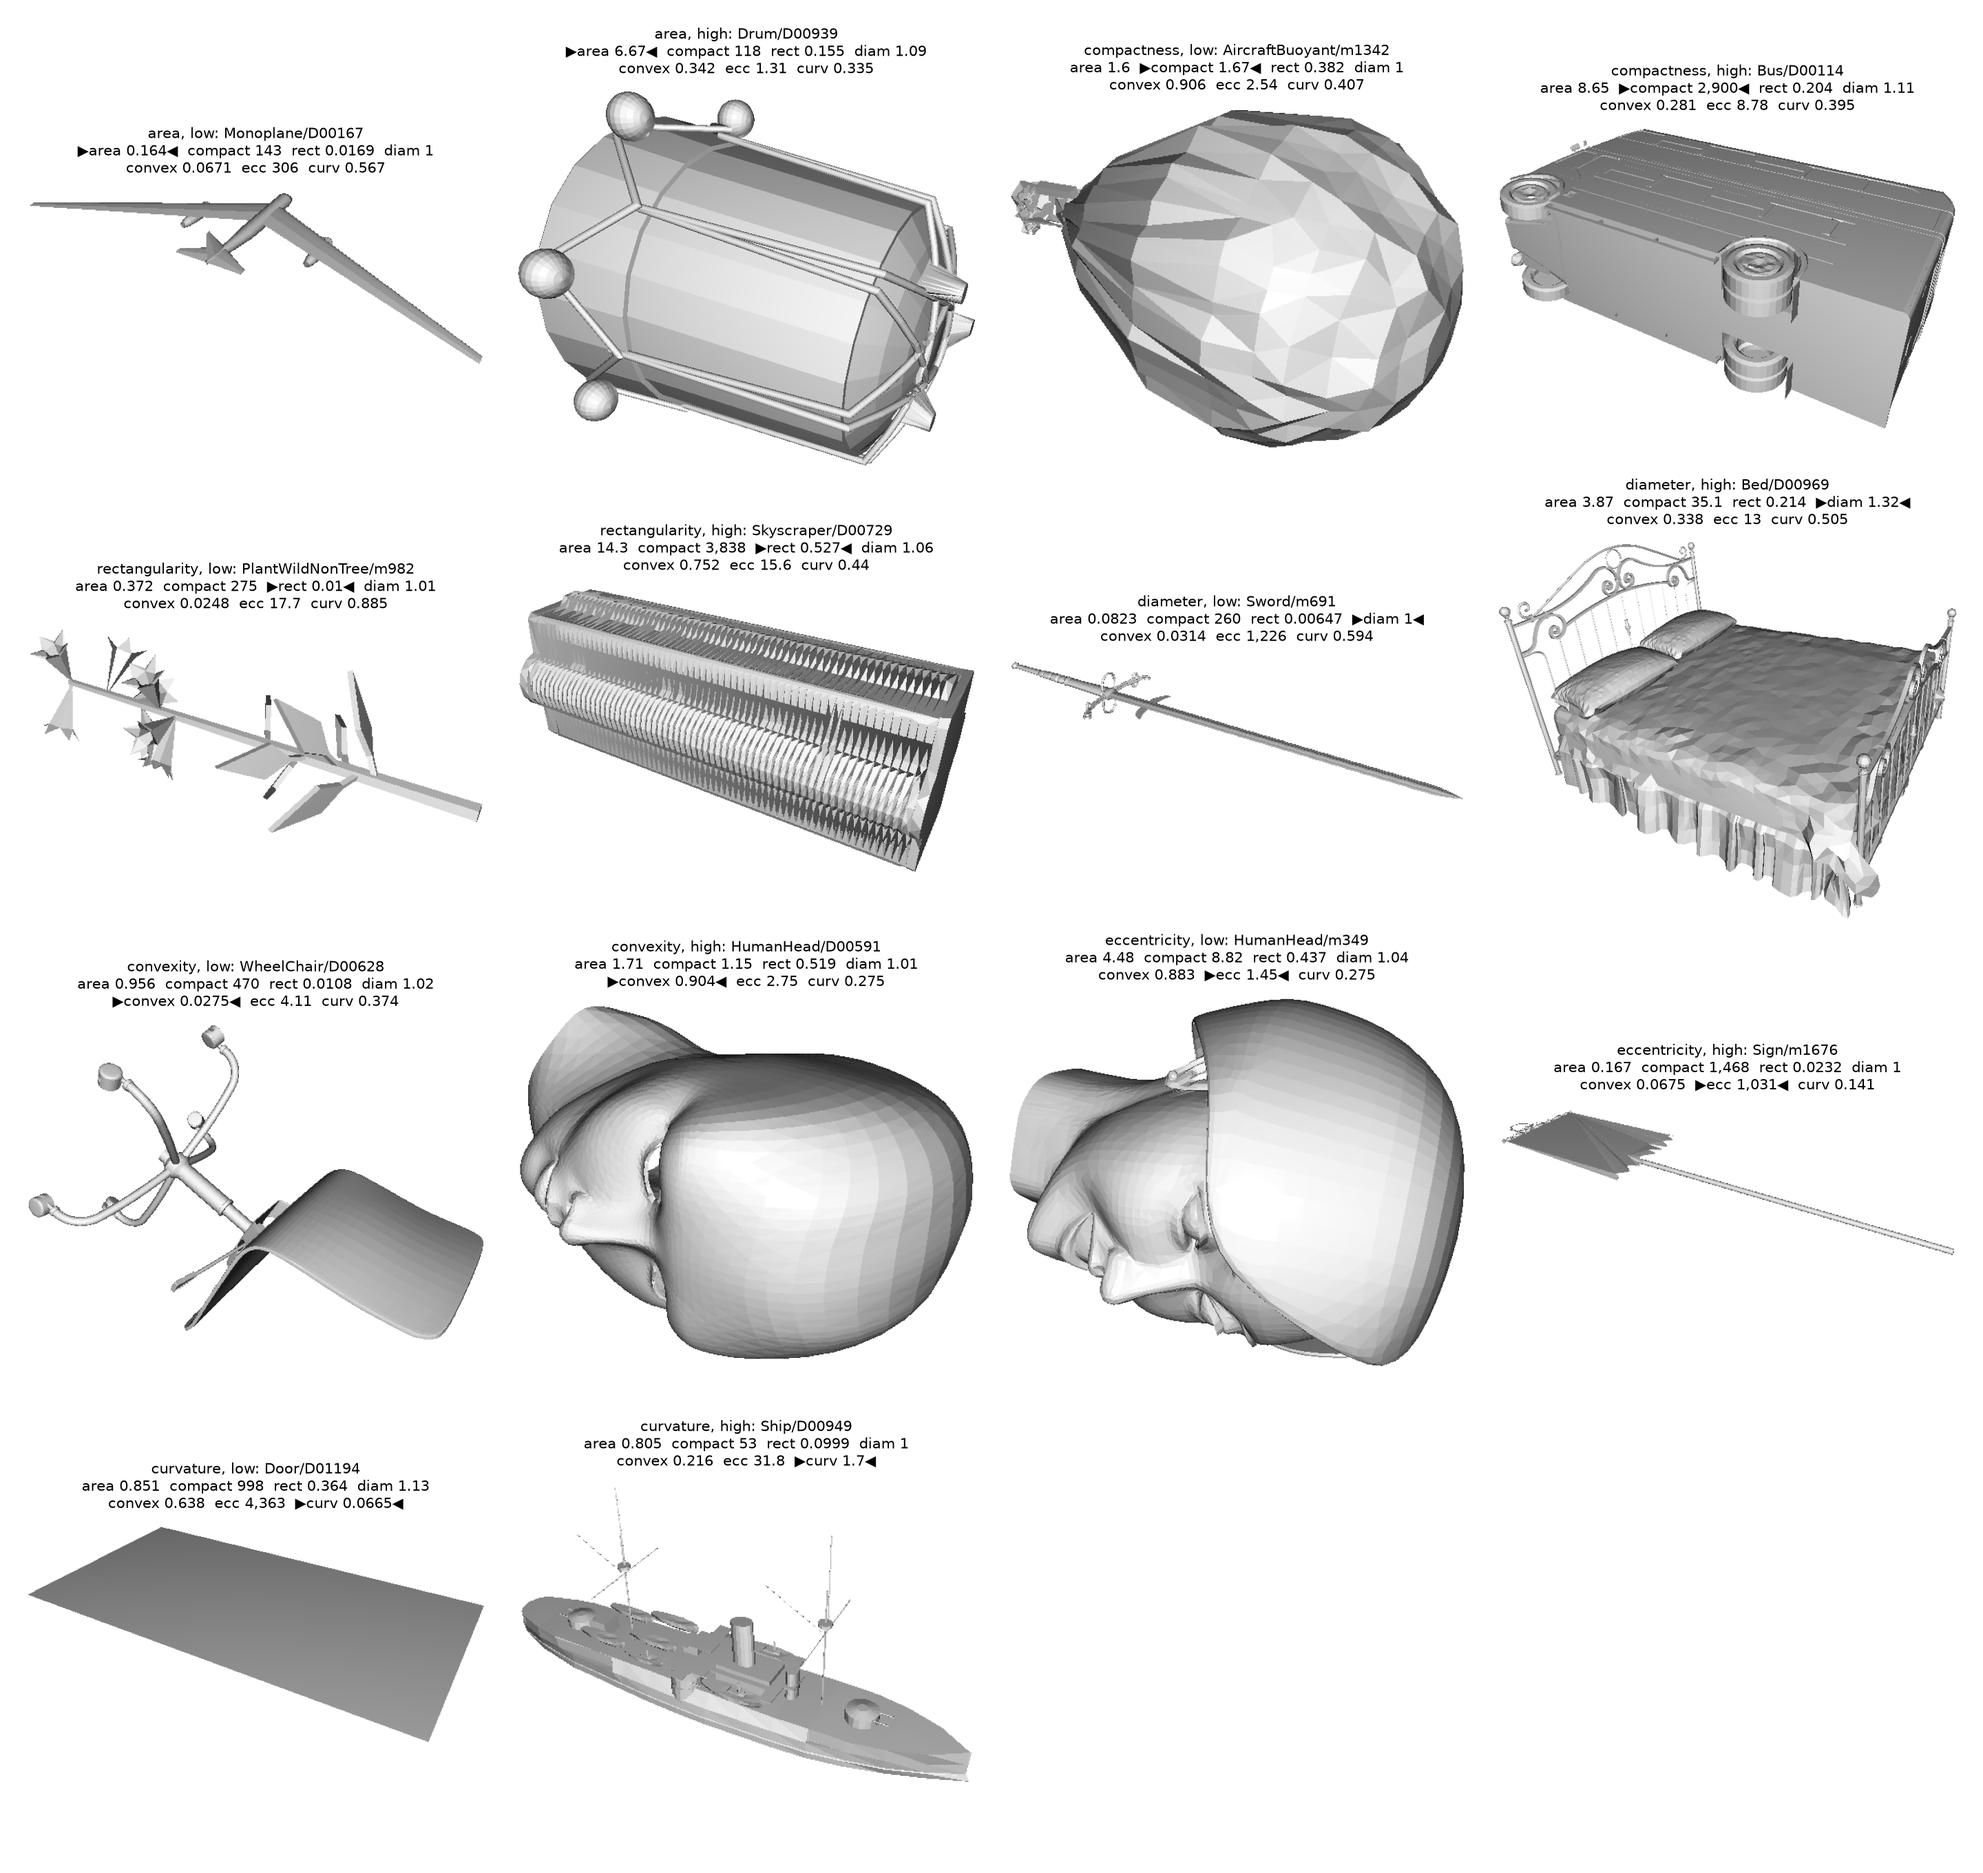
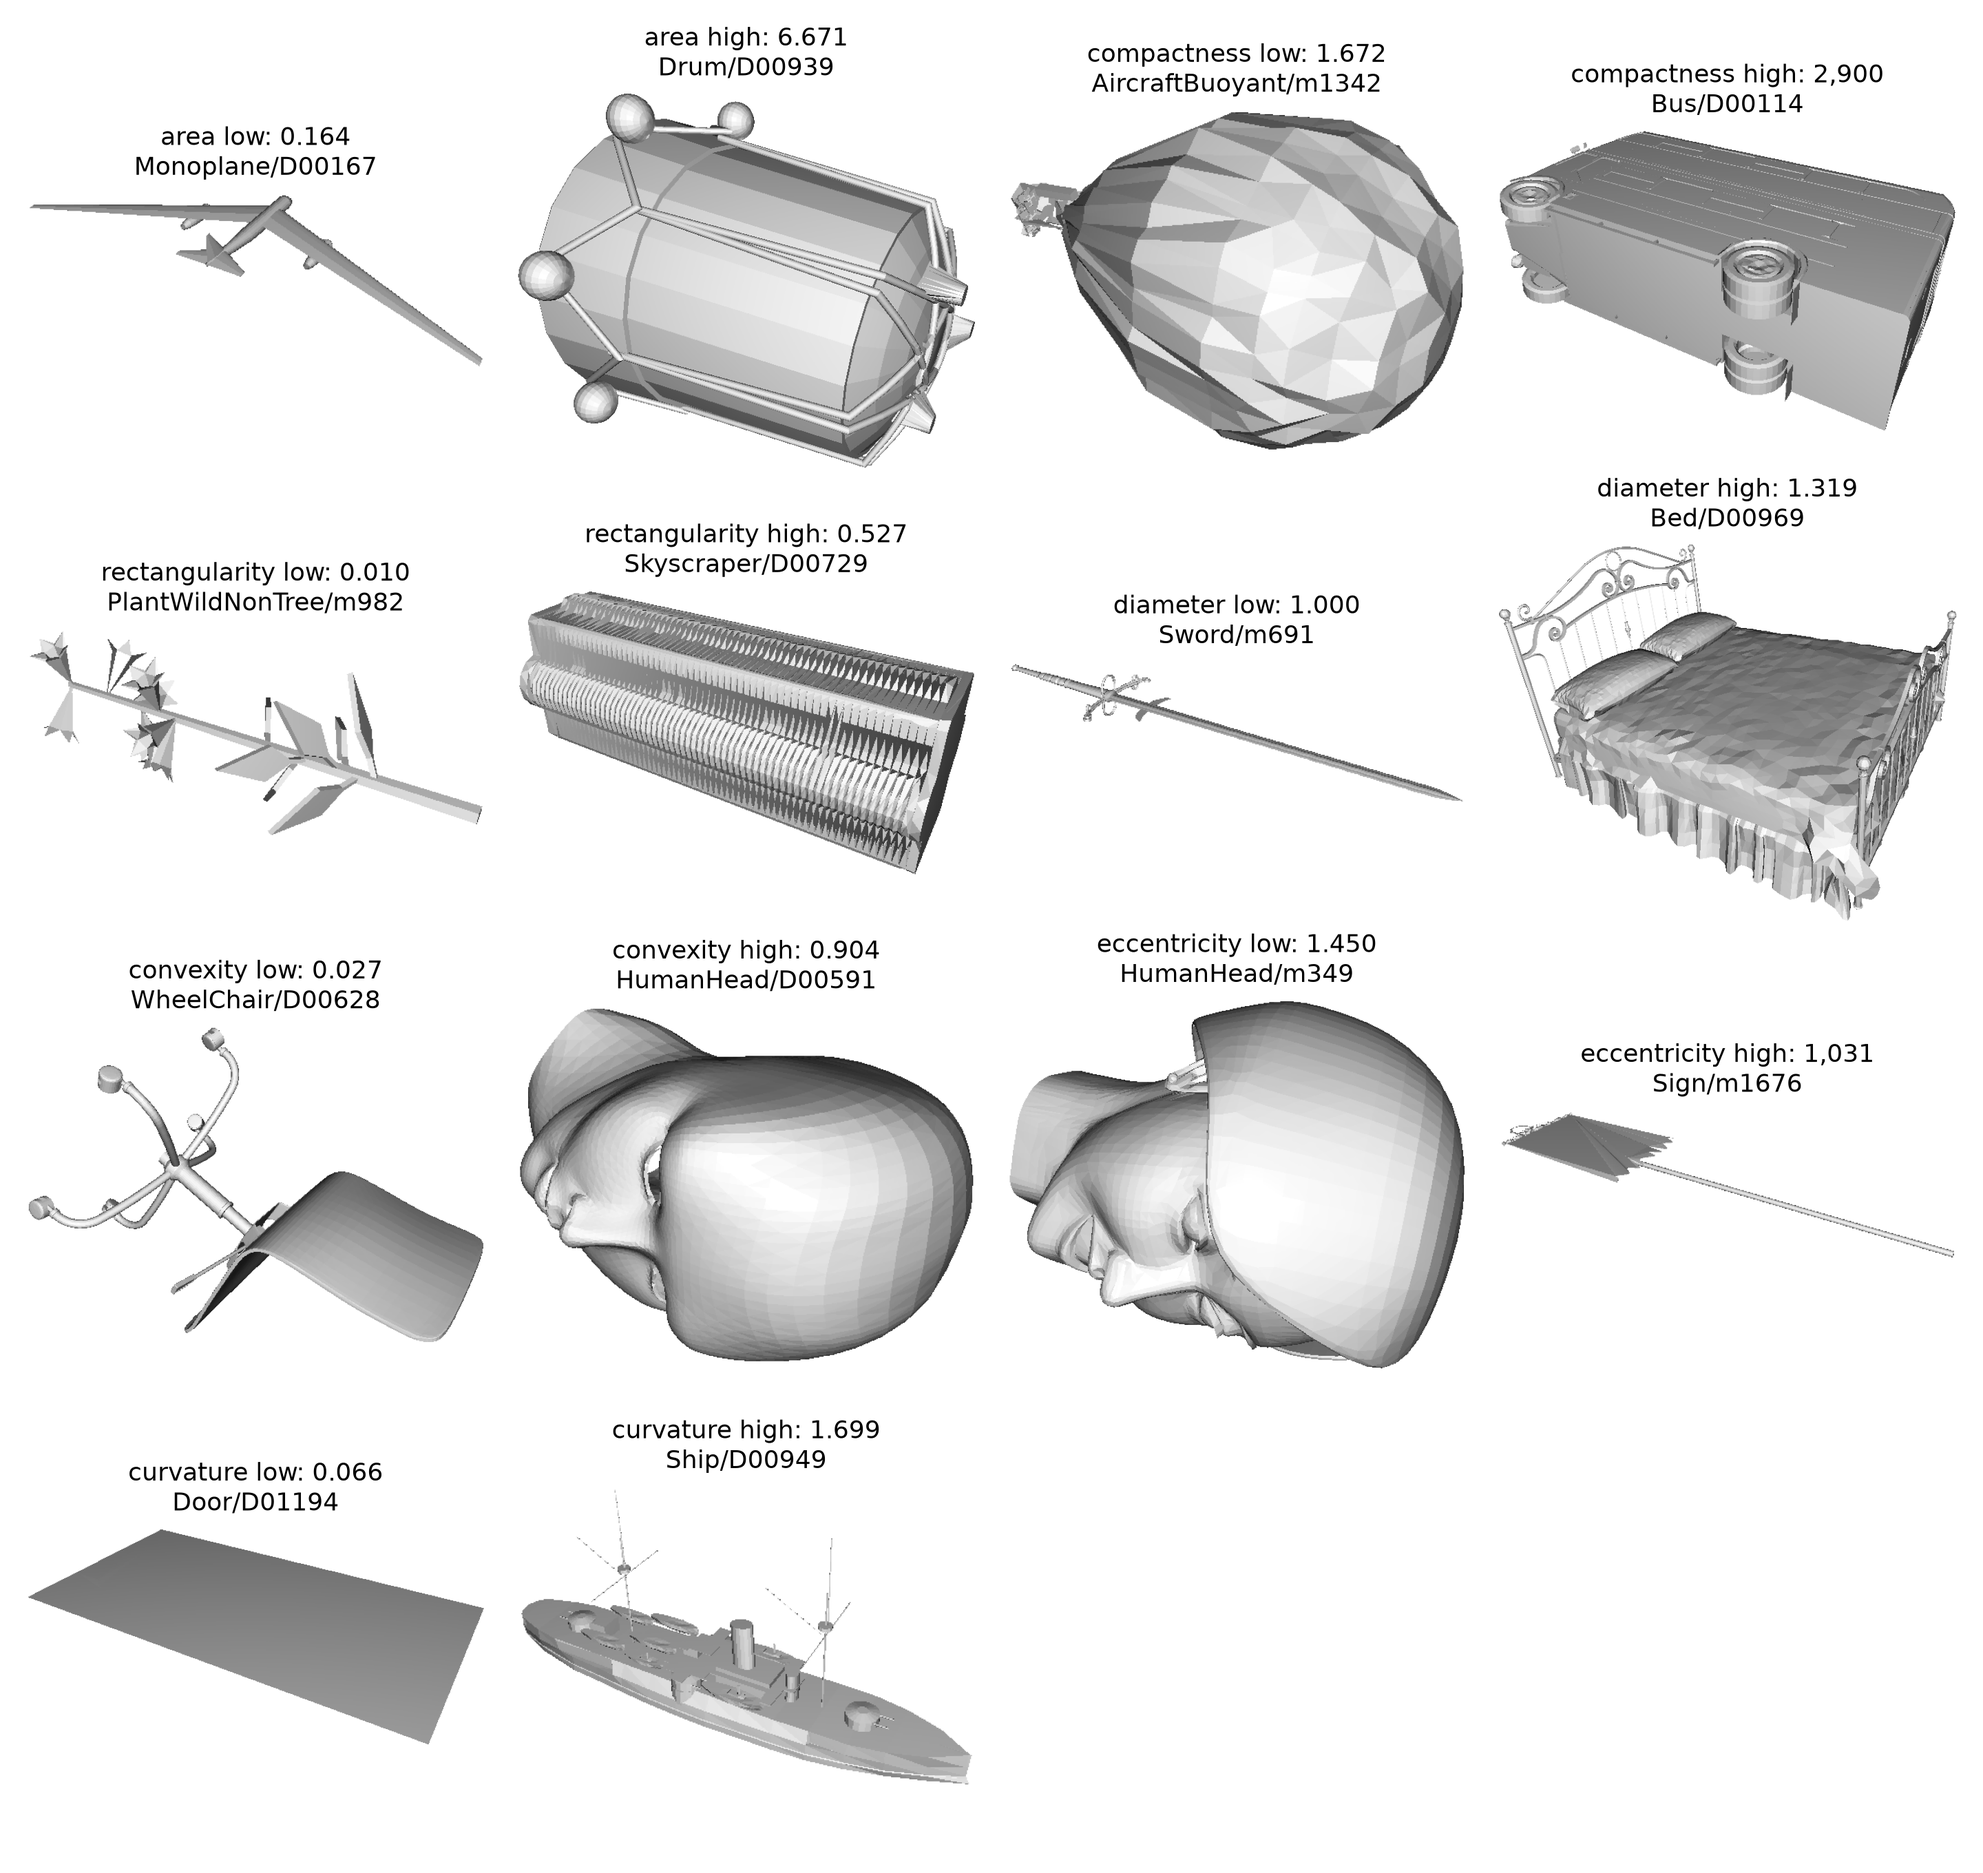
misc fixes and additions for report

diff --git a/tsne.py b/tsne.py
@@ -4,6 +4,7 @@ import numpy as np
 import pandas as pd
 import matplotlib.pyplot as plt
 import open3d as o3d
+from matplotlib.backend_bases import MouseEvent
 from sklearn.manifold import TSNE
 
 import distance as ds
@@ -26,13 +27,13 @@ def embed_2d(seed=0):
     return points
 
 
-def plot(points, gui=True):
+def plot(points, gui=True, brush=None):
     classes = sorted(points["class"].unique())
     code = points["class"].map({c: i for i, c in enumerate(classes)}).to_numpy()
     fig, ax = plt.subplots(figsize=(12, 10))
     dots = ax.scatter(points["x"], points["y"], c=code, cmap="nipy_spectral", s=10)
     for cls, part in points.groupby("class"):
-        ax.text(part["x"].median(), part["y"].median(), cls, fontsize=6, alpha=0.7,
+        ax.text(part["x"].median(), part["y"].median(), cls, fontsize=8, alpha=0.8,
                 ha="center", bbox=dict(boxstyle="square,pad=0.1", fc="white", alpha=0.5, lw=0))
     ax.set_title(f"tsne of {len(points)} shapes, {len(classes)} classes")
     ax.set_xticks([])
@@ -41,9 +42,6 @@ def plot(points, gui=True):
     fname = os.path.join(out_dir, "tsne.png")
     plt.savefig(fname, dpi=150)
     print("saved", fname)
-    if not gui:
-        plt.close(fig)
-        return
 
     note = ax.annotate("", xy=(0, 0), xytext=(12, 12), textcoords="offset points", fontsize=9,
                        bbox=dict(boxstyle="round", fc="white"), arrowprops=dict(arrowstyle="-"))
@@ -83,7 +81,17 @@ def plot(points, gui=True):
 
     fig.canvas.mpl_connect("motion_notify_event", hover)
     fig.canvas.mpl_connect("button_press_event", click)
-    plt.show()
+    if brush is not None:
+        row = points[points["path"].map(qr.key) == brush].iloc[0]
+        x, y = ax.transData.transform((row["x"], row["y"]))
+        fig.canvas.callbacks.process("motion_notify_event", MouseEvent("motion_notify_event", fig.canvas, x, y))
+        fname = os.path.join(out_dir, "tsne_brush.png")
+        plt.savefig(fname, dpi=150)
+        print("saved", fname)
+    if gui:
+        plt.show()
+    else:
+        plt.close(fig)
 
 
 if __name__ == "__main__":
@@ -94,4 +102,4 @@ if __name__ == "__main__":
         points["path"] = points["path"].str.replace("\\", "/", regex=False)
     else:
         points = embed_2d()
-    plot(points, gui="-nogui" not in argv)
+    plot(points, gui="-nogui" not in argv, brush=qr.flag_value(argv, "-brush", None, str))

diff --git a/show_descriptors.py b/show_descriptors.py
@@ -21,17 +21,10 @@ descriptors = {
     "curvature": "flat or concave vs strongly convex",
 }
 
-short = {"area": "area", "compactness": "compact", "rectangularity": "rect", "diameter": "diam",
-         "convexity": "convex", "eccentricity": "ecc", "curvature": "curv"}
-
 def caption(row, name, end):
-    def value(d):
-        v = row[d]
-        text = f"{short[d]} {v:.3g}" if abs(v) < 1000 else f"{short[d]} {v:,.0f}"
-        return f"▶{text}◀" if d == name else text
-    names = list(descriptors)
-    return "\n".join([f"{name}, {end}: {key(row)}", "  ".join(value(d) for d in names[:4]),
-                      "  ".join(value(d) for d in names[4:])])
+    v = row[name]
+    value = f"{v:.3f}" if abs(v) < 1000 else f"{v:,.0f}"
+    return f"{name} {end}: {value}\n{key(row)}"
 
 def key(row):
     return f"{row['class']}/{os.path.splitext(os.path.basename(row['path']))[0]}"
@@ -58,14 +51,14 @@ def main(view=False):
             labels.append(caption(row, name, end))
             picked.append({"descriptor": name, "end": end, "shape": key(row),
                            "value": row[name], "class": row["class"]})
-        save_grid(pair, labels, os.path.join(examples_dir, f"{name}.png"), columns=2, cell=(3.6, 3.6), fontsize=8)
+        save_grid(pair, labels, os.path.join(examples_dir, f"{name}.png"), columns=2, cell=(3.6, 3.6), fontsize=11)
         images += pair
         captions += labels
         if view:
             meshes = [shaded(low["path"]).translate((-0.8, 0, 0)), shaded(high["path"]).translate((0.8, 0, 0))]
             o3d.visualization.draw_geometries(meshes, window_name=f"{name}: {story}", width=1400, height=700)
     save_grid(images, captions, os.path.join(out_dir, "descriptor_examples.png"), columns=4,
-              cell=(3.6, 3.4), fontsize=7.5)
+              cell=(3.6, 3.4), fontsize=13)
 
     save_stats(pd.DataFrame(picked), examples_csv)
     print("snapshots in", examples_dir)

diff --git a/query.py b/query.py
@@ -47,7 +47,7 @@ def query_row(target, database_paths):
     return pd.DataFrame([ft.extract_features(prepared)]), prepared
 
 
-def show(query_path, matches, label, external=False, gui=True):
+def show(query_path, matches, label, external=False, gui=True, suffix=""):
     os.makedirs(examples_dir, exist_ok=True)
     captions = [f"query{' (external file)' if external else ''}\n{label}"] + [f"#{rank} {key(row.path)}\nd = {row.distance:.3f}"
                                       for rank, row in enumerate(matches.itertuples(), start=1)]
@@ -59,15 +59,18 @@ def show(query_path, matches, label, external=False, gui=True):
         meshes.append(mesh)
 
     shown = min(len(meshes), 11)
-    fig, ax = plt.subplots(1, shown, figsize=(2.4 * shown, 2.9))
-    for a, mesh, caption in zip(np.atleast_1d(ax), meshes, captions):
+    columns = min(shown, 6)
+    rows = -(-shown // columns)
+    fig, ax = plt.subplots(rows, columns, figsize=(2.4 * columns, 2.9 * rows), squeeze=False)
+    for a in ax.ravel():
+        a.axis("off")
+    for a, mesh, caption in zip(ax.ravel(), meshes[:shown], captions):
         a.imshow(render(mesh, size=400))
         a.set_title(caption, fontsize=8)
-        a.axis("off")
     if shown < len(meshes):
         fig.suptitle(f"first {shown - 1} of {len(meshes) - 1} matches", fontsize=9)
     plt.tight_layout()
-    fname = os.path.join(examples_dir, f"{label.replace('/', '_')}.png")
+    fname = os.path.join(examples_dir, f"{label.replace('/', '_')}{suffix}.png")
     plt.savefig(fname, dpi=150)
     plt.close(fig)
     print("snapshot:", fname)

diff --git a/validate_features.py b/validate_features.py
@@ -27,9 +27,11 @@ expected = {
              "diameter": np.sqrt(3), "convexity": 1.0, "eccentricity": 1.0},
     "sphere": {"area": np.pi, "compactness": 1.0, "rectangularity": np.pi / 6,
                "diameter": 1.0, "convexity": 1.0, "eccentricity": 1.0},
-    "long box": {"rectangularity": 1.0, "convexity": 1.0, "diameter": np.sqrt(1 + 2 * 0.1 ** 2),
+    "long box": {"area": 0.42, "compactness": 0.42 ** 3 / (36 * np.pi * 0.01 ** 2),
+                 "rectangularity": 1.0, "convexity": 1.0, "diameter": np.sqrt(1 + 2 * 0.1 ** 2),
                  "eccentricity": 56.1},
-    "cylinder": {"rectangularity": np.pi / 4, "convexity": 1.0,
+    "cylinder": {"area": 0.78 * np.pi, "compactness": (0.78 * np.pi) ** 3 / (36 * np.pi * (0.09 * np.pi) ** 2),
+                 "rectangularity": np.pi / 4, "convexity": 1.0,
                  "diameter": np.sqrt(1 + 0.6 ** 2), "eccentricity": 3.06},
 }
 

diff --git a/show_viewer_modes.py b/show_viewer_modes.py
@@ -1,0 +1,22 @@
+import os
+import sys
+import open3d as o3d
+
+from preprocessing import db_path, out_dir
+from snapshots import render, shaded, save_grid, angled
+
+
+def main(name="Helicopter/m1304"):
+    mesh = shaded(os.path.join(db_path, name + ".obj"))
+    lines = o3d.geometry.LineSet.create_from_triangle_mesh(mesh)
+    lines.paint_uniform_color((0.0, 0.0, 0.0))
+    view = angled(mesh)
+    images = [render(mesh, size=800, view=view), render(mesh, size=800, view=view, wireframe=True),
+              render(lines, size=800, view=view)]
+    count = f"{len(mesh.vertices):,} v / {len(mesh.triangles):,} f"
+    captions = [f"{name}, shaded\n{count}", "shaded with wireframe", "wireframe only"]
+    save_grid(images, captions, os.path.join(out_dir, "viewer_modes.png"), columns=3, cell=(3.6, 3.2), fontsize=11)
+
+
+if __name__ == "__main__":
+    main(*sys.argv[1:2])

diff --git a/compare_distances.py b/compare_distances.py
@@ -85,8 +85,9 @@ def main():
     fig, ax = plt.subplots(figsize=(9, 5))
     for metric in main_rows["histogram distance"].unique():
         part = main_rows[main_rows["histogram distance"] == metric]
-        ax.bar([f"{r.normalisation}\n{metric}" for r in part.itertuples()],
-               part["precision@10"], label=metric)
+        bars = ax.bar([f"{r.normalisation}\n{metric}" for r in part.itertuples()],
+                      part["precision@10"], label=metric)
+        ax.bar_label(bars, fmt="%.3f", fontsize=9)
     ax.set_ylabel("precision@10")
     ax.set_title("normalisation and histogram distance (all blocks)")
     ax.set_ylim(0, 1.15 * main_rows["precision@10"].max())

diff --git a/knn.py b/knn.py
@@ -86,8 +86,7 @@ def main(target, k=qr.default_k, r=None, gui=True):
 
     external = qr.os.path.isfile(target) and not target.startswith(qr.normalised_dir)
     label = qr.key(target) if external else qr.key(query_path)
-    label += f"_knn{k}" if r is None else f"_r{r}"
-    qr.show(query_path, matches, label, external, gui)
+    qr.show(query_path, matches, label, external, gui, f"_knn{k}" if r is None else f"_r{r}")
     return matches
 
 

diff --git a/preprocessing.py b/preprocessing.py
@@ -102,7 +102,7 @@ def make_class_histogram(df, label=""):
     counts = df["class"].value_counts().sort_values()
     fig, ax = plt.subplots(figsize=(7, max(5, len(counts) * 0.16)))
     ax.barh(counts.index, counts.values, color="seagreen", edgecolor="black")
-    ax.set_title("shapes per class " + label)
+    ax.set_title("shapes per class")
     ax.set_xlabel("# shapes")
     ax.set_ylabel("class")
     ax.tick_params(axis="y", labelsize=7)

diff --git a/README.md b/README.md
@@ -45,6 +45,7 @@ Ten shapes are held out of the database to act as unseen queries; they are liste
 | Step | Command | Output |
 |---|---|---|
 | 1 viewer | `python main.py [mesh.obj]` | interactive viewer (mouse: rotate, zoom, pan; `W` toggles the wireframe) |
+| | `python show_viewer_modes.py [Class/shape]` | `out/viewer_modes.png` (one shape shaded, with wireframe and as wireframe only) |
 | 2 statistics, resampling, normalisation | `python preprocessing.py` | `out/shape_stats*.csv`, `out/resampled/`, `out/normalised/`, histograms |
 | | `python preprocessing.py normalise` | only redo the normalisation and its check |
 | 2 inspection | `python show_average_outliers.py [-nogui]`, `python show_resampled.py [Class/shape ...] [-nogui]` | viewer windows; `out/average_and_outliers.png`, `out/resampling_examples.png` (original vs resampled, wireframe) |
@@ -58,7 +59,7 @@ Ten shapes are held out of the database to act as unseen queries; they are liste
 | | `python normalise_features.py Gun/D00204 [log\|standard\|minmax]` | prints the normalised features of one shape |
 | 4 choosing the distance | `python compare_distances.py`, `python threshold_choice.py` | `out/distance_comparison.*`, `out/threshold_choice.png` |
 | 5 kd-tree check | `python knn.py -check` | agreement with brute force and timings |
-| 5 t-SNE | `python tsne.py [-redo] [-nogui]` | `out/tsne.png`; hover a point for its name and class, click it to open the shape |
+| 5 t-SNE | `python tsne.py [-redo] [-nogui] [-brush Class/shape]` | `out/tsne.png`; hover a point for its name and class, click it to open the shape; `-brush` saves the plot with that shape hovered as `out/tsne_brush.png` |
 | 6 evaluation | `python evaluate.py [-redo]` | `out/evaluation_*.csv`, `out/evaluation_classes.png` |
 | | `python evaluation_details.py` | prints the other numbers quoted in the report: perfect and empty top-10 shares, duplicates, flagged shapes, what a threshold of 0.35 returns, and which classes are confused with each other |
 
